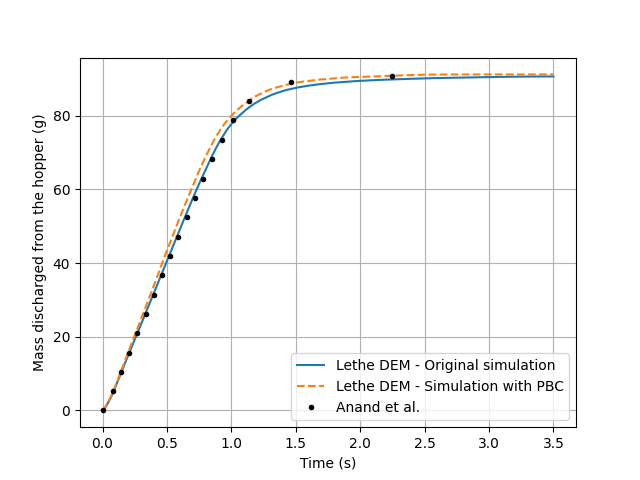
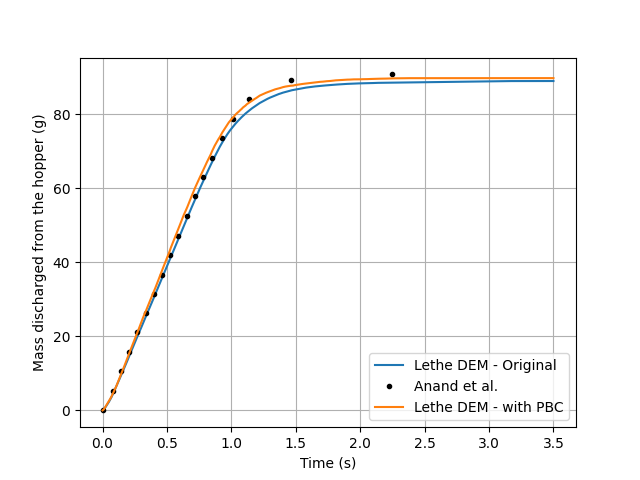
Update the figures

Changed region(s): [[0.0625, 0.125, 0.9062, 0.7812], [0.4375, 0.75, 0.875, 0.875], [0.1562, 0.7812, 0.1875, 0.8438]]

diff --git a/doc/source/examples/dem/rectangular-hopper/rectangular-hopper.rst b/doc/source/examples/dem/rectangular-hopper/rectangular-hopper.rst
@@ -374,8 +374,7 @@ Similarly to the non-periodic rectangular hopper simulation, the mesh must first
 
 Results Comparison
 ~~~~~~~~~~~~~~~~~~
-Here is the comparison of the results from the original simulation with Lethe DEM, the simulation with periodic boundary conditions with Lethe and the results from Anand et al. paper.
-The simulated mass discharging rate is 85.09 g/s from the original simulation and 91.73 g/s with PBC. Also, the run time of the simulation goes from about 1 hours and 30 minutes to 10 minutes on 8 cores with an Intel i7-11700K.
+Here is the comparison of the results between the original simulation with Lethe, the periodic boundary conditions simulation with Lethe and the results from Anand et al. paper. The simulated mass discharging rate is 82.79 g/s from the original simulation and 87.43 g/s with PBC. Also, the run time of the simulation goes from about 26 minutes to 1 minute 42 seconds on 16 cores with an Ryzen 7950X processor.
 
 .. figure:: images/figure_hopper_comparison.png
     :width: 600
